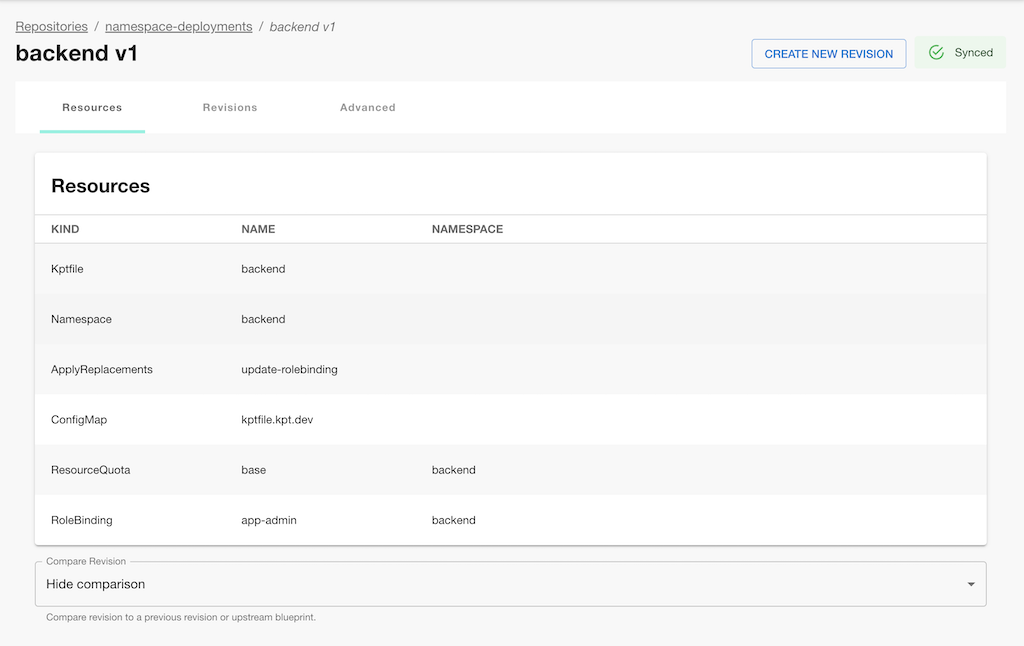
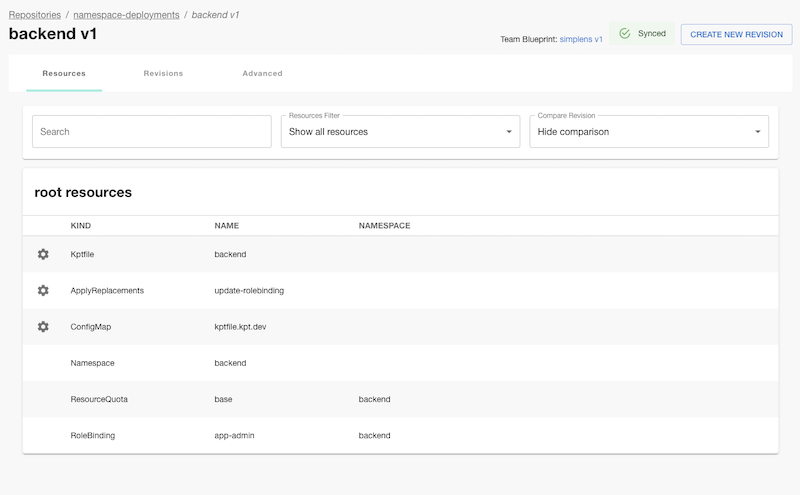
docs: update namespace provisioning ui guide

diff --git a/site/guides/namespace-provisioning-ui.md b/site/guides/namespace-provisioning-ui.md
@@ -30,9 +30,8 @@ Repository flow:
 - In `Repository Authentication`, you`ll need to use the GitHub Personal Access
   Token (unless your repository allows for unauthenticated writes). Github
   Personal Access Tokens can be created at https://github.com/settings/tokens,
-  and must include the 'repo' scope.  Create a new secret for the
-  Personal Access Token as directed by the flow.
-- In `Repository Content`, be sure to select Blueprints.
+  and must include the 'repo' scope.
+- In `Repository Content`, be sure to select `Team Blueprints`.
 
 Once the repository is registered, use the breadcrumbs (upper left) to navigate
 back to the Repositories view.
@@ -50,8 +49,6 @@ Repository flow:
   select the same secret in the Authentication Secret dropdown you created for
   registering blueprint repository.
 - In `Repository Content`, be sure to select Deployments.
-- In `Upstream Repository`, select from the already registered Blueprint
-  repositories.
 
 Once the repository is created, use the breadcrumbs (upper left) to navigate
 back to the Repositories view.
@@ -61,14 +58,14 @@ back to the Repositories view.
 Now that we have our repositories registered, we are ready to create our first
 blueprint using the UI.
 
-- Click the `Blueprints` tab to see the blueprint repositories. Click the row of
-  the blueprint repository where you want to add the new blueprint to.
+- On the Repositories Page, click the row of
+  the team blueprint repository where you want to add the new blueprint to.
 - Clicking the row will take you to a new screen where you can see the
   packages/blueprints in the selected repository. If this is a new repository,
   the list will be empty.
-- Click the `Add Blueprint` button in the upper right corner to create a new
-  blueprint.
-- In `Add Blueprint`, create a new blueprint with the name `simplens`.
+- Click the `Add Team Blueprint` button in the upper right corner to create a new
+  team blueprint.
+- In `Add Team Blueprint`, create a new team blueprint from scratch with the name `simplens`.
   ![add-blueprint](/static/images/porch-ui/blueprint/add-blueprint.png)
 - After completing the above flow, you`ll be taken to your newly created
   blueprint (see screenshot below). Here you will have a chance to add, edit,
@@ -92,21 +89,19 @@ blueprint using the UI.
     created), the namespace will be set to the name of the package.
 - Using the `Add Resource` button, add a new Role Binding resource
   - Name the resource `app-admin`
-  - In Role Reference, select `cluster role` and set `app-admin` as the name
+  - In Role Reference, select `Cluster Role` and set `app-admin` as the name
   - Click Add Subject, and in the newly added subject, select `Group` and set
     the name to `example.admin@bigco.com`.
 - Using the `Add Resource` button, add a new Apply Replacements resource.
   - Name the resource `update-rolebinding`
   - In Source, select `ConfigMap: kptfile.kpt.dev` as the source resource and
-    set `data.name` as source path
+    set `data.name: example` as source path
   - In Target, select `RoleBinding: app-admin` as the target resource and set
-    `subjects.0.name` as the target path. Select `Partial Value` as the replace
-    value option, with `period` as the delimiter selecting `example` to replace.
-- Click the Kptfile resource and add a new mutator
-  - Search for `replacements` and select `apply-replacements` with the latest
-    version available for selection
-  - Select the `ApplyReplacements: update-rolebinding` for the function config
-  - After adding the mutator, the Kptifle should have two mutators
+    `subjects.0.name: example.admin@bigco.com` as the target path. Select `Partial Value` as the replace
+    value option, with `period (.)` as the delimiter selecting `example` to replace.
+- Click the Kptfile resource and the `apply-replacements` mutator will have been added automatically
+  - The UI knows to add this mutator anytime a an `ApplyReplacements` resource is added
+  - Screenshot of the Kptifle showing the two mutators
     ![kptfile-mutators](/static/images/porch-ui/blueprint/edit-kptfile-mutators.png)
 - Using the `Add Resource` button, add a new Resource Quota resource
   - Name the resource `base`
@@ -124,8 +119,8 @@ blueprint using the UI.
   you should see the blueprint you just created has been finalized.
   ![finalized-blueprint](/static/images/porch-ui/blueprint/finalized-blueprint.png)
 
-So, with that, we created a blueprint from scratch and published it in blueprint
-repository. You should be able to see the blueprint in the `git` repository as
+So, with that, we created a blueprint from scratch and published it in a team blueprint
+repository. You should be able to see the blueprint by viewing the `git` repository directly
 well.
 
 ## Create a deployable instance of a blueprint
@@ -133,31 +128,26 @@ well.
 In this section, we will walk through the steps of creating a deployable
 instance of a blueprint.
 
-- Starting on the repository screen, click on `Deployments` tab to list
-  deployment repositories (as shown below).
-  ![deployment-repos](/static/images/porch-ui/deployment/deployment-repos.png)
-- Select a deployment repository by clicking the row.
-  ![deployment-repo-empty](/static/images/porch-ui/deployment/deployment-repo-empty.png)
-- Click the `Upstream Repository` link to navigate to the blueprints repository
-  and here you should see `simplens` blueprint.
-  ![blueprints-list](/static/images/porch-ui/deployment/blueprints-list.png)
+- Starting from the team blueprints repository where you created, you should see the `simplens` blueprint created above.
+  ![finalized-blueprint](/static/images/porch-ui/blueprint/finalized-blueprint.png)
 - Click the `simplens` blueprint.
   ![show-blueprint](/static/images/porch-ui/deployment/show-blueprint.png)
-- Click the `Deploy` button in the upper right corner to take you to the
-  `Add Deployment` flow. Create the new deployment with the name `backend`.
+- Click the `Clone` button in the upper right corner to take you to the
+  clone flow. For Action, select `Create a new deployment by cloning the simplens team blueprint` and name the deployment `backend`.
   ![add-deployment](/static/images/porch-ui/deployment/add-deployment.png)
 - Complete the flow and the package will be added to your deployments
-  repository. Note that the namespace across all the resources has been updated
+  repository. Note that the namespace across all the namespace scoped resources have been updated
   to the name of the package.
   ![added-deployment](/static/images/porch-ui/deployment/backend-deployment-added.png)
-- Using the breadcrumbs, click back the deployments view to see your new
+- Clck the `Diff` button for the `RoleBinding app-admin` resource. Here you'll be able to see the differences of this resource compared to the same resource in the upstream team blueprint. 
+  ![draft-deployment-screenshot](/static/images/porch-ui/deployment/rolebinding-diff.png)
+- After closing the diff dialog, using the breadcrumbs, click back the deployments view to see your new
   deployment is added in Draft status.
   ![draft-deployment-screenshot](/static/images/porch-ui/deployment/deployments-list.png)
 - Click into the backend deployment and move the deployment to Proposed, then
   Published by approving the deployment. Optionally, before moving the
-  deployment to Published, if you wish to, you can make changes to the
+  deployment to Proposed, you can make changes to the
   deployment by adding/removing/updating resources.
-  ![draft-deployment](/static/images/porch-ui/deployment/draft-deployment.png)
 - Once the deployment is published, click `Create Sync` to have `Config Sync`
   sync the deployment to the Kubernetes cluster.
   ![published-deployment](/static/images/porch-ui/deployment/published-deployment.png)
